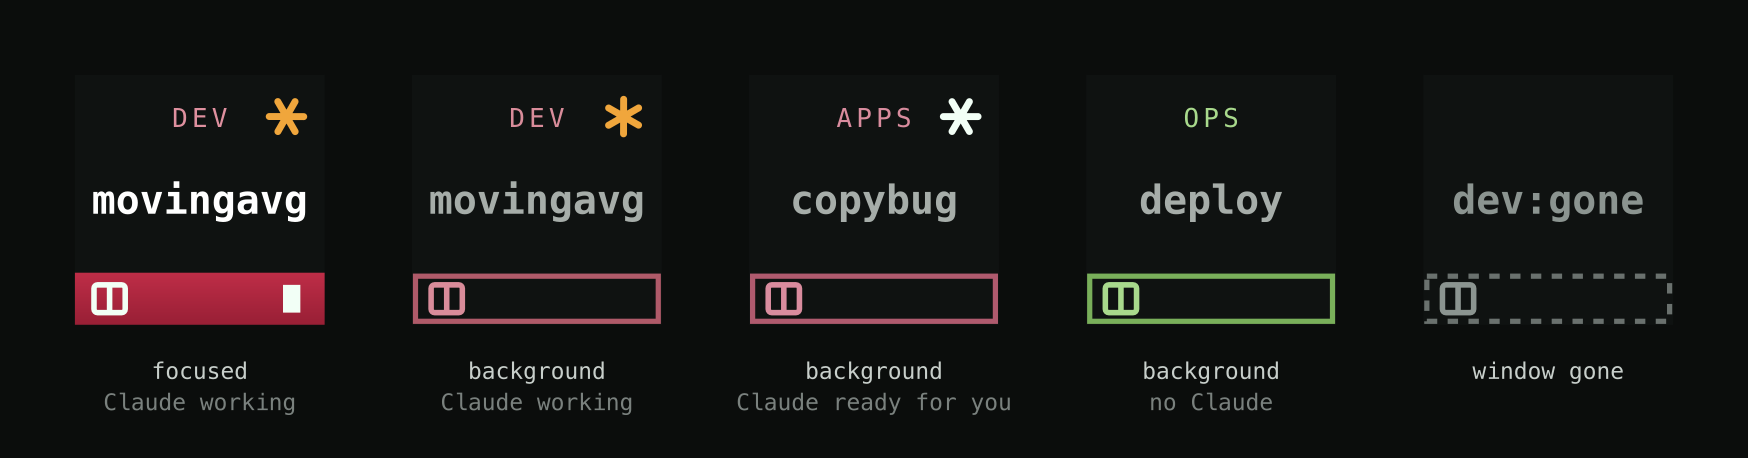
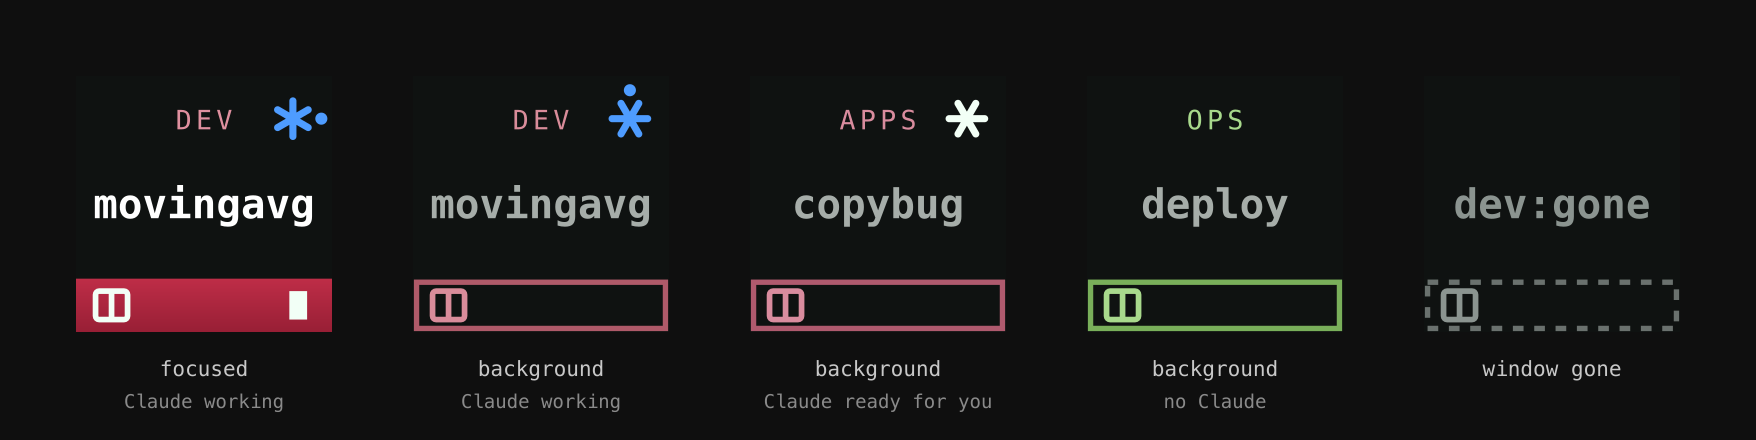
fix: one colour language — the tmux key's Claude spark is blue, not amber
Amber meant WORKING on the Focus tmux Window key and BLOCKED, NEEDS YOU on the
Codex, Cursor and AI Project keys. That is the worst kind of collision: the two
states call for opposite actions — leave it alone versus go there now — and both
keys sit on the same deck. Focus tmux Window is not being retired, so it adopts
the surviving convention:

    blue  = working, leave it alone
    amber = stopped, waiting on you
    white = idle at the prompt

The two superseded per-agent keys keep the old scheme deliberately; they are
retiring, and churning them would be work thrown away.

Focus tmux Window is NOT superseded by AI Project, which is what prompted this:
it targets a tmux WINDOW rather than an agent session, focuses that window
rather than one pane, and works for a window with no agent in it at all.

Both README figures that render from buildTmuxKeyImage were showing the old
amber and are regenerated — and now regenerate reproducibly, from the real
builder, via scripts/make-tmux-figure.py (tsx -> inkscape -> magick). CLAUDE.md
said these figures were code-generated but no script was ever committed, so in
practice they were redrawn by hand each time and drifted.

The GIF keeps its original 12 frames, 144px and 40cs delay — one frame per orbit
position, which is exactly how many distinct positions the spark has.

Claude-Session: https://claude.ai/code/session_01MxdqxTZqV1P1hQimSUKL1H

diff --git a/com.movingavg.switchboard.sdPlugin/bin/plugin.js b/com.movingavg.switchboard.sdPlugin/bin/plugin.js
@@ -13070,12 +13070,18 @@ spin = 0) {
     const eyebrow = session
         ? `<text x="36" y="15" text-anchor="middle" font-family="${MONO}" font-size="7.5" letter-spacing="1.2" fill="${sessionText}">${escapeXml(session)}</text>`
         : "";
-    // Claude Code spark (top-right): amber and slowly rotating while WORKING,
+    // Claude Code spark (top-right): blue and slowly rotating while WORKING,
     // still signal-white when finished and WAITING for input, absent when no
     // claude runs in the window. Drawn as paths — no font-fallback risk.
+    //
+    // Blue, not amber, so ONE colour language holds across every key that
+    // outlives this release: blue = working (leave it alone), amber = stopped
+    // and waiting on you (go here now), white = idle at the prompt. Amber for
+    // "busy" here and amber for "needs you" on the AI Project key would be the
+    // worst kind of clash — the two call for opposite actions.
     let spark = "";
     if (claude !== "none") {
-        const color = claude === "working" ? "#F0A63C" : "#F2FFF6";
+        const color = claude === "working" ? "#4E9CFF" : "#F2FFF6";
         const angle = claude === "working" ? (spin % 12) * 30 : 0;
         spark =
             `<path d="M56 12h10M58.5 7.7l5 8.6M63.5 7.7l-5 8.6" ` +
@@ -13086,7 +13092,7 @@ spin = 0) {
             // two-frame wobble — motion you cannot see at key size. The orbiting
             // dot gives 12 genuinely distinct frames per revolution.
             const [ox, oy] = ORBIT[spin % 12];
-            spark += `<circle cx="${ox}" cy="${oy}" r="1.7" fill="#F0A63C"/>`;
+            spark += `<circle cx="${ox}" cy="${oy}" r="1.7" fill="#4E9CFF"/>`;
         }
     }
     return (`<svg xmlns="http://www.w3.org/2000/svg" width="72" height="72" viewBox="0 0 72 72">` +

diff --git a/src/mac/tmux-key.ts b/src/mac/tmux-key.ts
@@ -116,12 +116,18 @@ export function buildTmuxKeyImage(
 		? `<text x="36" y="15" text-anchor="middle" font-family="${MONO}" font-size="7.5" letter-spacing="1.2" fill="${sessionText}">${escapeXml(session)}</text>`
 		: "";
 
-	// Claude Code spark (top-right): amber and slowly rotating while WORKING,
+	// Claude Code spark (top-right): blue and slowly rotating while WORKING,
 	// still signal-white when finished and WAITING for input, absent when no
 	// claude runs in the window. Drawn as paths — no font-fallback risk.
+	//
+	// Blue, not amber, so ONE colour language holds across every key that
+	// outlives this release: blue = working (leave it alone), amber = stopped
+	// and waiting on you (go here now), white = idle at the prompt. Amber for
+	// "busy" here and amber for "needs you" on the AI Project key would be the
+	// worst kind of clash — the two call for opposite actions.
 	let spark = "";
 	if (claude !== "none") {
-		const color = claude === "working" ? "#F0A63C" : "#F2FFF6";
+		const color = claude === "working" ? "#4E9CFF" : "#F2FFF6";
 		const angle = claude === "working" ? (spin % 12) * 30 : 0;
 		spark =
 			`<path d="M56 12h10M58.5 7.7l5 8.6M63.5 7.7l-5 8.6" ` +
@@ -132,7 +138,7 @@ export function buildTmuxKeyImage(
 			// two-frame wobble — motion you cannot see at key size. The orbiting
 			// dot gives 12 genuinely distinct frames per revolution.
 			const [ox, oy] = ORBIT[spin % 12];
-			spark += `<circle cx="${ox}" cy="${oy}" r="1.7" fill="#F0A63C"/>`;
+			spark += `<circle cx="${ox}" cy="${oy}" r="1.7" fill="#4E9CFF"/>`;
 		}
 	}
 

diff --git a/tests/tmux-key.test.ts b/tests/tmux-key.test.ts
@@ -108,10 +108,14 @@ describe("buildTmuxKeyImage — Claude Code spark", () => {
 		expect(buildTmuxKeyImage(status, "none")).not.toContain("M56 12h10");
 		expect(buildTmuxKeyImage(status)).not.toContain("M56 12h10"); // default
 	});
-	it("working: amber spark rotated by the poll tick", () => {
+	/** Blue, not amber. One colour language across every surviving key: blue =
+	 * working (leave it alone), amber = stopped and waiting on you, white =
+	 * idle. Amber here would mean the opposite of amber on the AI Project key. */
+	it("working: blue spark rotated by the poll tick", () => {
 		const svg = buildTmuxKeyImage(status, "working", 3);
-		expect(svg).toContain('stroke="#F0A63C"');
+		expect(svg).toContain('stroke="#4E9CFF"');
 		expect(svg).toContain('transform="rotate(90 61 12)"');
+		expect(svg).not.toContain("#F0A63C"); // amber is reserved for needs-you
 	});
 	it("working shows the orbiting dot, and it MOVES between ticks (visible motion)", () => {
 		const a = buildTmuxKeyImage(status, "working", 0);
@@ -129,6 +133,6 @@ describe("buildTmuxKeyImage — Claude Code spark", () => {
 	});
 	it("the spark rides every key state, including hot", () => {
 		const svg = buildTmuxKeyImage({ state: "hot", session: "dev", window: "movingavg" }, "working");
-		expect(svg).toContain("#F0A63C");
+		expect(svg).toContain("#4E9CFF");
 	});
 });

diff --git a/scripts/make-tmux-figure.py b/scripts/make-tmux-figure.py
@@ -1,0 +1,149 @@
+#!/usr/bin/env python3
+"""Regenerate the two README figures that come from buildTmuxKeyImage:
+docs/tmux-live-keys.png (the five states) and docs/claude-spark.gif (the spark
+turning while Claude works).
+
+WHAT IT'S FOR: the figure has to be rendered FROM the real key-face builder, not
+drawn by hand, or it quietly starts lying the moment the design changes — which
+is exactly what happened when the Claude "working" spark moved from amber to
+blue. This script shells out to the actual TypeScript builder for the five key
+SVGs, composes them into one SVG with their captions, and rasterises with
+inkscape (the same tool make-hero.py and make-icons.py use).
+
+Run it whenever buildTmuxKeyImage changes:  python3 scripts/make-tmux-figure.py
+"""
+
+import json
+import pathlib
+import subprocess
+import tempfile
+
+ROOT = pathlib.Path(__file__).resolve().parent.parent
+OUT = ROOT / "docs" / "tmux-live-keys.png"
+GIF = ROOT / "docs" / "claude-spark.gif"
+GIF_PX = 144
+GIF_DELAY = 40  # centiseconds, matching the original
+
+INK = "#0F0F0F"
+LABEL = "#C8C8C8"
+SUB = "#8A8A8A"
+MONO = "Menlo, Monaco, monospace"
+
+# (key args, caption, sub-caption). Chosen to show every state the key can be in,
+# including the two that matter most on a busy deck: which window has your
+# keystrokes, and whether the agent in it still needs you.
+CASES = [
+    (dict(state="hot", session="dev", window="movingavg"), "focused", "Claude working"),
+    (dict(state="cold", session="dev", window="movingavg"), "background", "Claude working"),
+    (dict(state="cold", session="apps", window="copybug"), "background", "Claude ready for you"),
+    (dict(state="cold", session="ops", window="deploy"), "background", "no Claude"),
+    # The real unresolvable shape, straight from statusFor(): no session to put
+    # in the eyebrow, and the window field holds the target string as typed.
+    (dict(state="unknown", session="", window="dev:gone"), "window gone", ""),
+]
+CLAUDE = ["working", "working", "waiting", "none", "none"]
+
+KEY = 256
+GAP = 81
+PAD_X = 76
+PAD_TOP = 76
+CAP_GAP = 44
+LINE = 32
+
+
+def build_svgs(specs: list[dict]) -> list[str]:
+    """Key faces straight from the real builder — never redrawn here, or the
+    figure starts lying the moment the design changes."""
+    snippet = ROOT / "sb-figure-tmp.mts"
+    payload = json.dumps(specs)
+    snippet.write_text(
+        'import { buildTmuxKeyImage } from "./src/mac/tmux-key.js";\n'
+        f"const cases = {payload} as const;\n"
+        "const out = cases.map((c: any) =>\n"
+        "  buildTmuxKeyImage({ state: c.state, session: c.session, window: c.window }, c.claude, c.spin));\n"
+        "process.stdout.write(JSON.stringify(out));\n"
+    )
+    try:
+        raw = subprocess.run(
+            ["npx", "tsx", str(snippet)], cwd=ROOT, capture_output=True, text=True, check=True
+        ).stdout
+    finally:
+        snippet.unlink(missing_ok=True)
+    return json.loads(raw)
+
+
+def inner(svg: str) -> str:
+    """The body of a 72x72 key SVG, ready to nest inside the composite."""
+    return svg[svg.index(">", svg.index("<svg")) + 1 : svg.rindex("</svg>")]
+
+
+def rasterise(svg: str, px: int, out: pathlib.Path) -> None:
+    with tempfile.NamedTemporaryFile("w", suffix=".svg", delete=False) as fh:
+        fh.write(svg)
+        tmp = fh.name
+    subprocess.run(["inkscape", "-w", str(px), "-h", str(px), tmp, "-o", str(out)],
+                   check=True, capture_output=True)
+    pathlib.Path(tmp).unlink(missing_ok=True)
+
+
+def make_gif() -> None:
+    """The spark turning through one full orbit — 12 frames, one per poll tick,
+    which is exactly how many distinct positions the orbit has."""
+    specs = [dict(state="cold", session="dev", window="movingavg", claude="working", spin=i)
+             for i in range(12)]
+    with tempfile.TemporaryDirectory() as tmpdir:
+        frames = []
+        for i, svg in enumerate(build_svgs(specs)):
+            frame = pathlib.Path(tmpdir) / f"f{i:02d}.png"
+            rasterise(svg, GIF_PX, frame)
+            frames.append(str(frame))
+        subprocess.run(
+            ["magick", "-delay", str(GIF_DELAY), "-loop", "0", *frames, str(GIF)],
+            check=True, capture_output=True,
+        )
+    print(f"wrote {GIF} ({len(specs)} frames, {GIF_PX}x{GIF_PX})")
+
+
+def main() -> None:
+    svgs = build_svgs([{**c, "claude": cl, "spin": 3 if i == 0 else 0}
+                       for i, ((c, _, _), cl) in enumerate(zip(CASES, CLAUDE))])
+    width = PAD_X * 2 + KEY * len(CASES) + GAP * (len(CASES) - 1)
+    height = PAD_TOP + KEY + CAP_GAP + LINE * 2
+    parts = [
+        f'<svg xmlns="http://www.w3.org/2000/svg" width="{width}" height="{height}" '
+        f'viewBox="0 0 {width} {height}">',
+        f'<rect width="{width}" height="{height}" fill="{INK}"/>',
+    ]
+    for i, (svg, (_, cap, sub)) in enumerate(zip(svgs, CASES)):
+        x = PAD_X + i * (KEY + GAP)
+        parts.append(
+            f'<svg x="{x}" y="{PAD_TOP}" width="{KEY}" height="{KEY}" viewBox="0 0 72 72">'
+            f"{inner(svg)}</svg>"
+        )
+        cx = x + KEY / 2
+        ty = PAD_TOP + KEY + CAP_GAP
+        parts.append(
+            f'<text x="{cx}" y="{ty}" text-anchor="middle" font-family="{MONO}" '
+            f'font-size="21" fill="{LABEL}">{cap}</text>'
+        )
+        if sub:
+            parts.append(
+                f'<text x="{cx}" y="{ty + LINE}" text-anchor="middle" font-family="{MONO}" '
+                f'font-size="19" fill="{SUB}">{sub}</text>'
+            )
+    parts.append("</svg>")
+
+    with tempfile.NamedTemporaryFile("w", suffix=".svg", delete=False) as fh:
+        fh.write("".join(parts))
+        tmp = fh.name
+    subprocess.run(
+        ["inkscape", "-w", str(width), "-h", str(height), tmp, "-o", str(OUT)],
+        check=True, capture_output=True,
+    )
+    pathlib.Path(tmp).unlink(missing_ok=True)
+    print(f"wrote {OUT} ({len(CASES)} keys, {width}x{height})")
+    make_gif()
+
+
+if __name__ == "__main__":
+    main()

diff --git a/README.md b/README.md
@@ -54,7 +54,7 @@ These still work and are unchanged, but **AI Project replaces all three** and th
 - **Window Ring** *(key)* — a curated ring of windows: long-press to add the current window (or remove it, if it's already in the ring), tap to cycle through them. The key shows a live count with a green ring when the current window is a member; optional sound on long-press.
 
 **tmux & iTerm2**
-- **Focus tmux Window** *(key)* — raise the iTerm2 window for a tmux window, optionally switching to it. Hold the key to capture the current tmux window into the button. The key face renders live as a mini tmux pane: its status bar lights up in the session's color — with a block cursor — exactly when that window would receive your keystrokes (active in tmux, focused in iTerm2, iTerm2 frontmost). A spark in the corner tracks Claude Code inside the window: amber and slowly turning while it works, still and white when it's finished and waiting for your input.
+- **Focus tmux Window** *(key)* — raise the iTerm2 window for a tmux window, optionally switching to it. Hold the key to capture the current tmux window into the button. The key face renders live as a mini tmux pane: its status bar lights up in the session's color — with a block cursor — exactly when that window would receive your keystrokes (active in tmux, focused in iTerm2, iTerm2 frontmost). A spark in the corner tracks Claude Code inside the window: blue and slowly turning while it works, still and white when it's finished and waiting for your input.
 - **Switch tmux Pane** *(dial)* — rotate to move between tmux panes — or, after a press/tap toggles the mode, tmux windows. Only drives the tmux session in the frontmost macOS window — when iTerm2 isn't frontmost the dial does nothing (never a background terminal) — and the mode survives restarts. The touchscreen shows the mode and the pane's running command (or the window name).
 - **Cycle tmux Window** *(dial)* — rotate to cycle tmux windows; press for the last window. Tap the touchscreen to widen the scope to ALL sessions — rotation then crosses session boundaries and press jumps to the last session. Only drives the tmux client in the frontmost macOS window (does nothing when iTerm2 isn't frontmost). Renders the current session/window live on the touchscreen.
 
@@ -76,7 +76,9 @@ One honest limit on **Cursor Project**: Cursor writes nothing to disk that separ
 
 ![Four states of a Claude Project key: focused under tmux with Claude working, focused under Terminal with Claude ready, a background project with Claude working, and a project with no Claude running](docs/claude-project-keys.png)
 
-<img src="docs/claude-spark.gif" width="120" alt="Animated key face: the amber spark turns while Claude Code works" />
+<img src="docs/claude-spark.gif" width="120" alt="Animated key face: the blue spark turns while Claude Code works" />
+
+Across every key: **blue means working** (leave it alone), **amber means the agent is waiting on you** (go there now), **white means idle at the prompt**. The two superseded per-agent keys still use the older scheme where amber meant *working* — one more reason to move them to AI Project.
 
 The dial touchscreens speak the same color language — green drives tmux, blue drives macOS windows and apps, amber drives BBEdit — and the ⇄ mark appears exactly where a tap flips the dial's mode:
 

diff --git a/CLAUDE.md b/CLAUDE.md
@@ -180,9 +180,16 @@ installed copy ships stale code. The `build` step is gated by `streamdeck valida
   `str.replace` targeting a "What it does" bullet also matched the README intro and
   shipped it broken (bullet spliced mid-sentence) for two releases. Re-read the
   rendered section after any scripted edit.
-- **README figures are code-generated.** docs/tmux-live-keys.png, claude-project-keys.png,
-  claude-spark.gif, and dial-strips.png render FROM the real image builders (tsx snippet +
-  inkscape) — regenerate them whenever a key-face design changes, or the README silently lies.
+- **ONE colour language across the keys: blue = working, amber = waiting on YOU,
+  white = idle.** The tmux key's Claude spark was amber-for-working, which meant
+  the opposite of amber on the agent keys — two states demanding opposite actions
+  sharing a colour on one deck. It is blue now. The two superseded per-agent keys
+  keep the old scheme and die with it; don't "fix" them.
+- **README figures are code-generated.** docs/tmux-live-keys.png and claude-spark.gif now
+  regenerate together via `python3 scripts/make-tmux-figure.py` (tsx -> the REAL
+  buildTmuxKeyImage -> inkscape -> magick); claude-project-keys.png and
+  dial-strips.png are still ad-hoc. Regenerate whenever a key face changes, or the
+  README silently lies — the spark figures did exactly that until the recolour.
 - **Cursor CLI (`cursor-agent`) breaks three assumptions Codex taught us.** All
   measured against 2026.08.11-e8db854, all of them cost time here:
   (a) **`ps -o comm=` is TRUNCATED** to 16 chars for these processes (it returns
